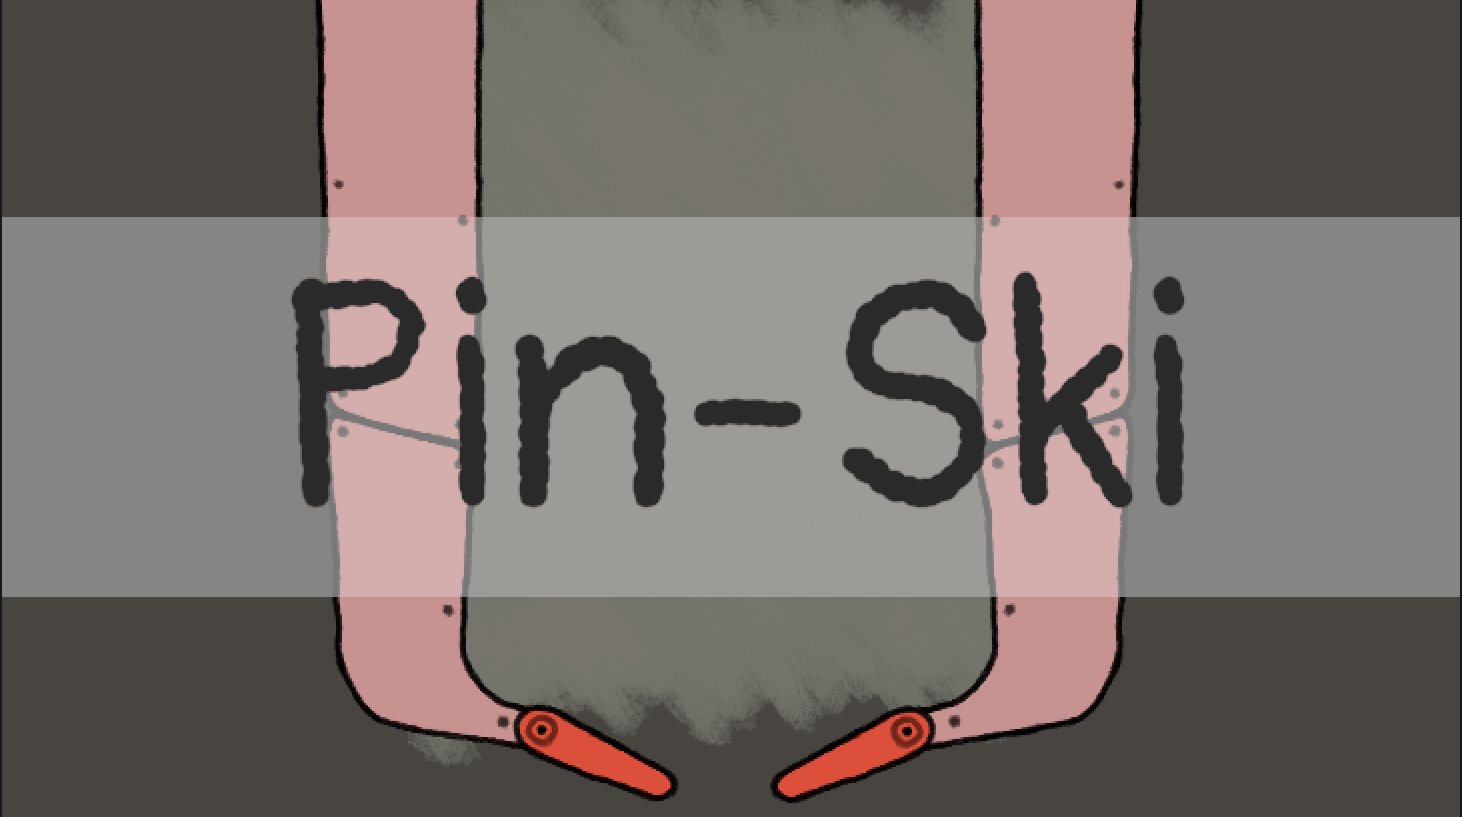
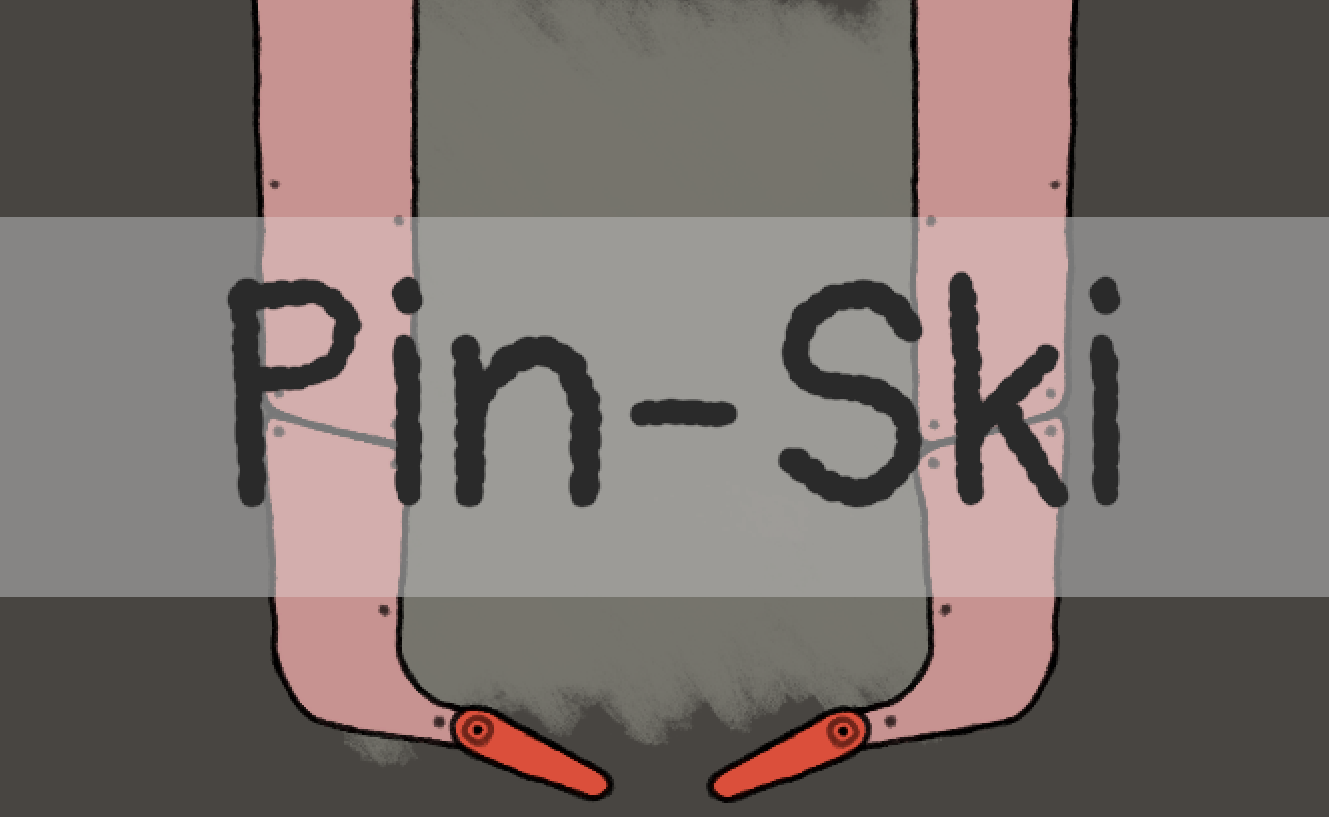
updated jams page

diff --git a/projects.html b/projects.html
@@ -1,0 +1,63 @@
+<!DOCTYPE html>
+<html lang="en">
+<head>
+    <link rel="stylesheet" href="styleSheet.css" />
+    <link rel="shortcut icon" href="favicon.ico" />
+    <link rel="preconnect" href="https://fonts.gstatic.com">
+    <link href="https://fonts.googleapis.com/css2?family=Kalam:wght@300&family=Laila&family=Nanum+Gothic&display=swap" rel="stylesheet">
+    <meta name="viewport" content="width=device-width" />
+    <title>Leah Blasczyk - Other Games</title>
+</head>
+<body>
+    <div class="hello">
+        <h1> Games! </h1>
+    </div>
+
+    <div class="intro">
+        <a class="faceLink" href="https://lebrra.github.io/" title="Home Page"></a>
+        <p id="intro">
+            This is an extensive list of all projects I've worked on that don't fit on the front page or within the Game Jam category. <br /><br />
+            This page is simply for me to remember everything I've ever worked on; see my 
+            <a href="https://lebrra.github.io/">main page</a> for my portfolio highlights!
+        </p>
+    </div>
+
+    <section>
+        <div class="title"><p>Filament Games</p></div>
+        <div>
+            <div><i id="italics">*Some images/gifs are large and take a bit to load</i></div>
+
+            <div class="project">
+                <a id="allProject1" class="projectImg" href="https://store.steampowered.com/app/1067220/RoboCo/" target="_blank"></a>
+                <div class="projectDesc">
+                    <h4><a href="https://store.steampowered.com/app/1067220/RoboCo/" target="_blank" title="View on Steam">Roboco</a> - <a href="https://www.filamentgames.com/" target="_blank" title="Filament Games">Filament Games</a></h4>
+                    <p>
+                        <i><strong>- Roots</strong></i>
+                    </p>
+                    <p>
+                        <strong>Date: </strong> February 2-4, 2023<br />
+                        <strong>Time: </strong> 48 hours
+                    </p><br />
+                    <p>
+                        3D root-growing survival for <br />Web, Windows, and Mac
+                    </p>
+                </div>
+            </div>
+        </div>
+    </section>
+
+    <footer>
+        <div class="footerTxt">
+            Porfolio Design Inspired by <a href="https://joebrogers.com/" target="_blank">Joeb Rogers</a>
+        </div>
+        <div class="socials">
+            <a id="icon1" class="socialLink" href="mailto:scout1665@gmail.com" title="Email: scout1665@gmail.com" target="_blank"></a>
+            <a id="icon2" class="socialLink" href="https://lebrra.itch.io/" title="Itch.io: Lebrra" target="_blank"></a>
+            <a id="icon3" class="socialLink" href="https://www.linkedin.com/in/leah-blasczyk-0b25b3198/" title="LinkedIn" target="_blank"></a>
+            <a id="icon4" class="socialLink" href="https://github.com/Lebrra" title="GitHub: Lebrra" target="_blank"></a>
+            <a id="icon5" class="socialLink" href="https://twitter.com/lebrra_" title="Twitter: Lebrra_" target="_blank"></a>
+            <a id="icon6" class="socialLink" href="Blasczyk_Resume.pdf" download title="Download Resume" target="_blank"></a>
+        </div>
+    </footer>
+</body>
+</html>

diff --git a/gamejams.html b/gamejams.html
@@ -27,6 +27,42 @@
             <div><i id="italics">*Some images/gifs are large and take a bit to load</i></div>
 
             <div class="project">
+                <a id="jam22" class="projectImg" href="https://lebrra.itch.io/pin-ski" target="_blank"></a>
+                <div class="projectDesc">
+                    <h4><a href="https://lebrra.itch.io/pin-ski" target="_blank" title="View on itch.io" class="projectTitle">Pin-Ski</a>
+                        <br><a href="https://devpost.com/software/pin-ski" target="_blank" title="View submission on devpost.com">MadHacks Fall 2023</a></h4>
+                    <p>
+                        <i><strong></strong></i>
+                    </p>
+                    <p>
+                        <strong>Date: </strong> November 11-12, 2023<br />
+                        <strong>Time: </strong> 24 hours
+                    </p><br />
+                    <p>
+                        Pinball + Skiball minigame<br />Playable on itch.io or Android
+                    </p>
+                </div>
+            </div>
+
+            <div class="project">
+                <a id="jam21" class="projectImg"></a>
+                <div class="projectDesc">
+                    <h4><a class="projectTitle">Over the TopHat*</a>
+                        <br>GAMED Club Jam</h4>
+                    <p>
+                        <i><strong>- Over the Top</strong></i>
+                    </p>
+                    <p>
+                        <strong>Date: </strong> October 6-8, 2023<br />
+                        <strong>Time: </strong> 48 hours
+                    </p><br />
+                    <p>
+                        <s>Pole-vaulting</s> Hat launcher<br />made in Godot
+                    </p>
+                </div>
+            </div>
+
+            <div class="project">
                 <a id="jam20" class="projectImg" href="https://lebrra.itch.io/pau" target="_blank"></a>
                 <div class="projectDesc">
                     <h4><a href="https://lebrra.itch.io/pau" target="_blank" title="View on itch.io" class="projectTitle">Pau</a>

diff --git a/styleSheet.css b/styleSheet.css
@@ -478,6 +478,20 @@ a.otherImg:hover + #text4 {
     content: url('GameJams/Pau.gif');
 }
 
+#jam21 {
+    content: url('GameJams/OverTheTop.png');
+}
+#jam21:hover {
+    content: url('GameJams/OverTheTop.gif');
+}
+
+#jam22 {
+    content: url('GameJams/PinSki.png');
+}
+#jam22:hover {
+    content: url('GameJams/PinSki.gif');
+}
+
 /* All Projects List */
 #allProject1 {
     content: url('GameJams/FarFromHome.png');
